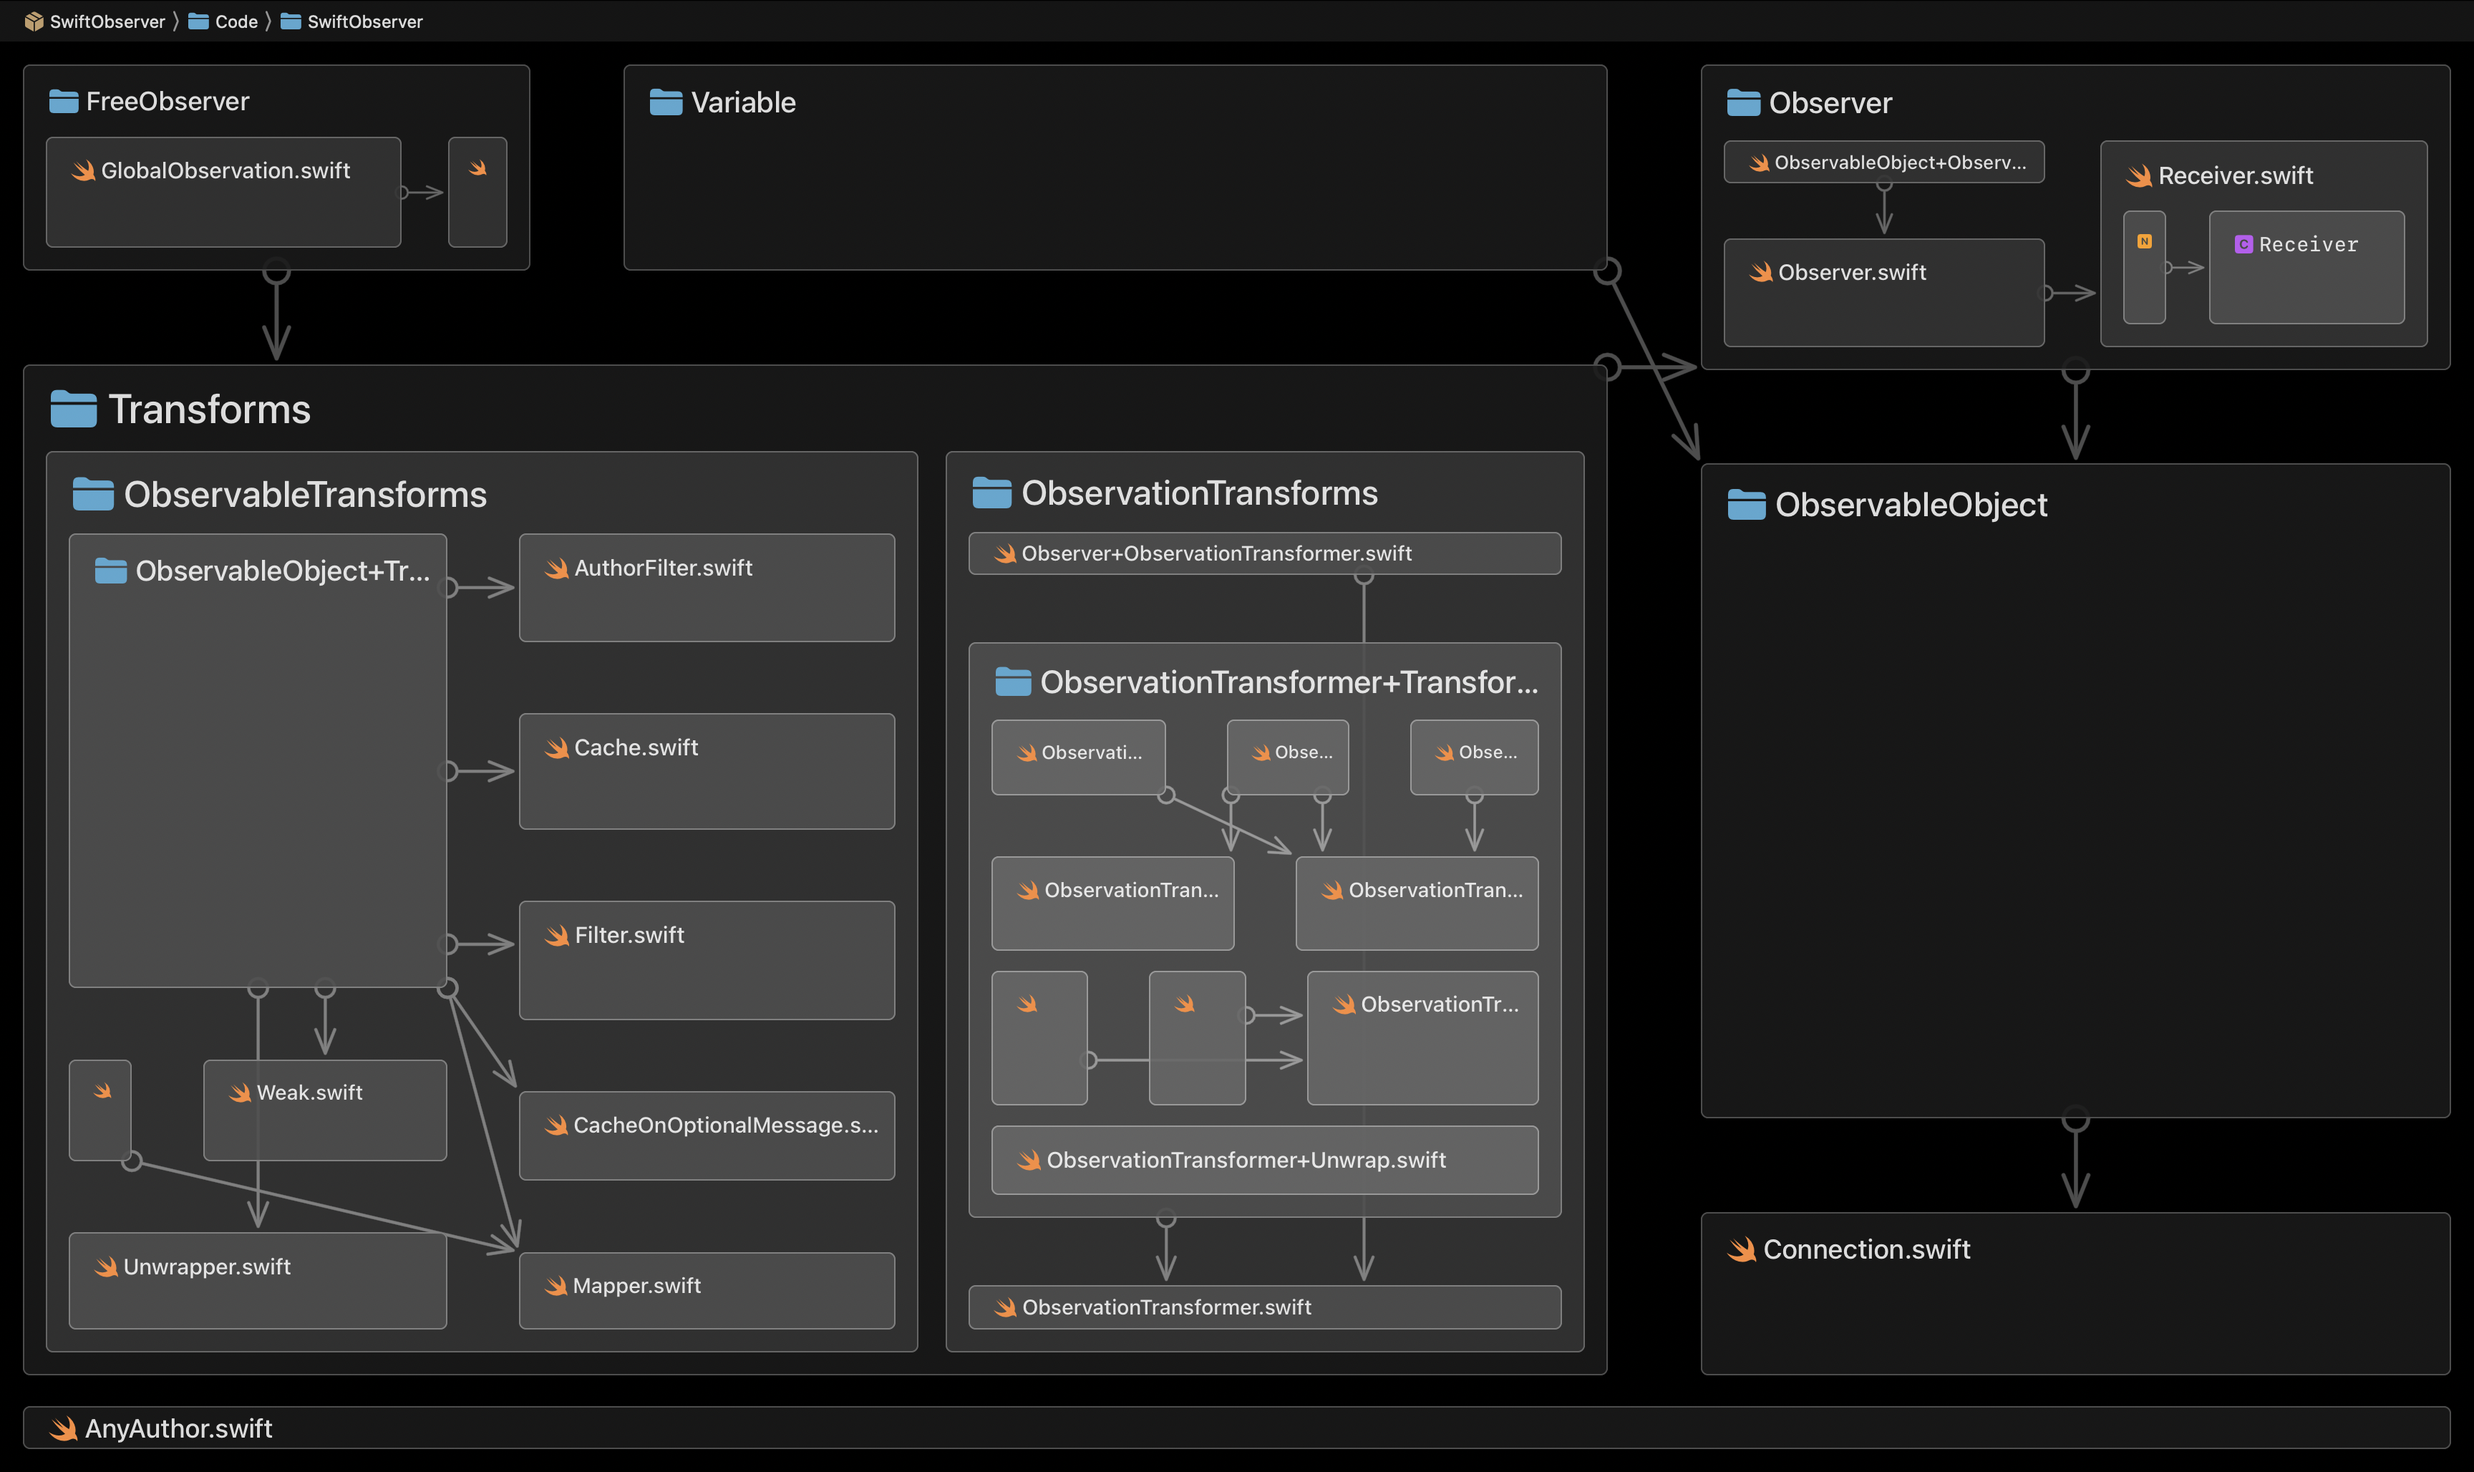
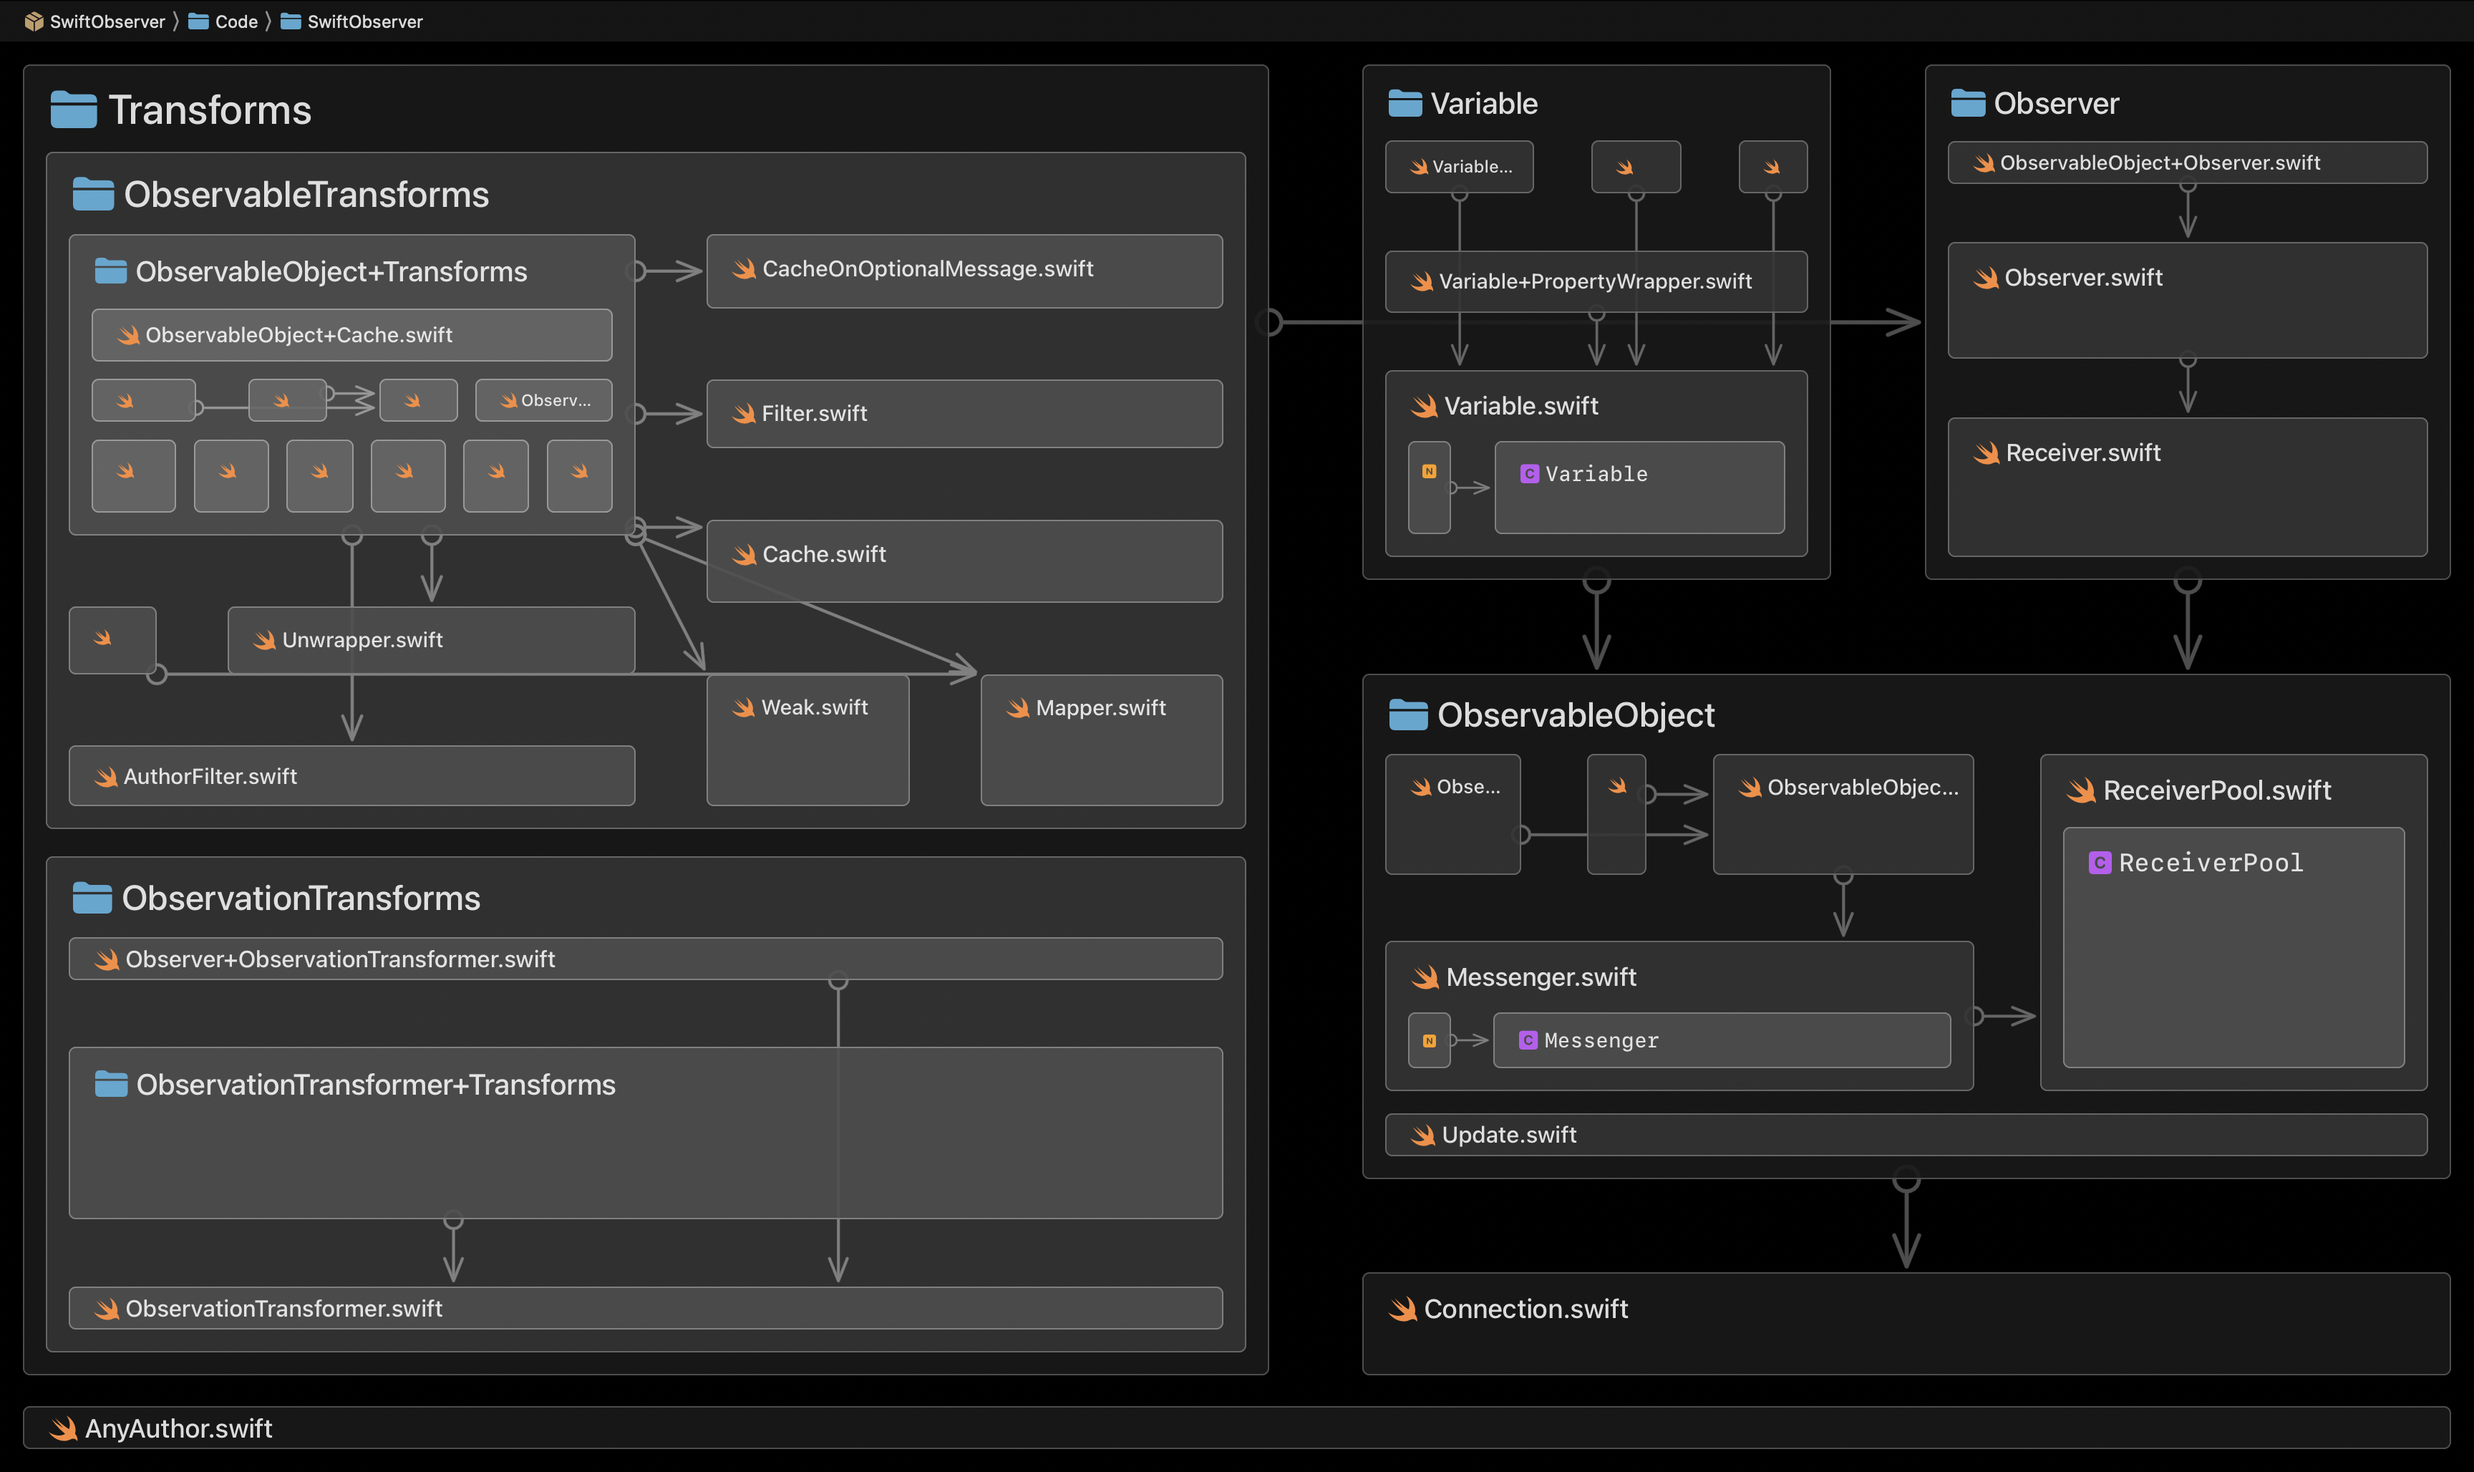
Remove "free" + global observation since they undermine the memory management concept

diff --git a/Tests/SwiftObserverTests/ObservableTransformTests.swift b/Tests/SwiftObserverTests/ObservableTransformTests.swift
@@ -50,7 +50,7 @@ class ObservableTransformTests: XCTestCase, LogObserver
         
         let transform = original.new().unwrap().map { "\($0)" }
         
-        let observer = FreeObserver()
+        let observer = TestObserver()
         
         var lastUpdateFromOriginal: Update<Int?>?
         
@@ -107,7 +107,7 @@ class ObservableTransformTests: XCTestCase, LogObserver
         
         var didFire = false
         
-        let observer = FreeObserver()
+        let observer = TestObserver()
         
         observer.observe(textMapping)
         {
@@ -129,7 +129,7 @@ class ObservableTransformTests: XCTestCase, LogObserver
         
         var observedNumbers = [Int]()
         
-        let observer = FreeObserver()
+        let observer = TestObserver()
         
         observer.observe(doubleDigits)
         {
@@ -153,7 +153,7 @@ class ObservableTransformTests: XCTestCase, LogObserver
         
         var observedNumber: Int? = nil
         
-        let observer = FreeObserver()
+        let observer = TestObserver()
         
         observer.observe(transform)
         {
@@ -174,7 +174,7 @@ class ObservableTransformTests: XCTestCase, LogObserver
         var receivedMessage: String?
         let expectedMessage = "message"
         
-        let observer = FreeObserver()
+        let observer = TestObserver()
         
         observer.observe(textMessenger)
         {
@@ -194,7 +194,7 @@ class ObservableTransformTests: XCTestCase, LogObserver
         
         var didUpdate = false
         
-        let observer = FreeObserver()
+        let observer = TestObserver()
         
         observer.observe(nonOptionalText)
         {
@@ -215,7 +215,7 @@ class ObservableTransformTests: XCTestCase, LogObserver
         
         var didUpdate = false
         
-        let observer = FreeObserver()
+        let observer = TestObserver()
         
         observer.observe(unwrappedText)
         {
@@ -253,4 +253,9 @@ class ObservableTransformTests: XCTestCase, LogObserver
     
     func receive(_ entry: Log.Entry) { latestLogEntry = entry }
     private var latestLogEntry: Log.Entry?
+    
+    class TestObserver: Observer
+    {
+        let receiver = Receiver()
+    }
 }

diff --git a/Tests/SwiftObserverTests/BasicTests.swift b/Tests/SwiftObserverTests/BasicTests.swift
@@ -6,7 +6,7 @@ class BasicTests: XCTestCase
     func testObserverving()
     {
         let messenger = Messenger<Int>()
-        let observer = FreeObserver()
+        let observer = TestObserver()
         var receivedNumber: Int?
         
         observer.observe(messenger) { receivedNumber = $0 }
@@ -24,7 +24,7 @@ class BasicTests: XCTestCase
         
         var didTriggerUpdate = false
         
-        let observer = FreeObserver()
+        let observer = TestObserver()
         
         observer.observe(messenger)
         {
@@ -37,8 +37,8 @@ class BasicTests: XCTestCase
     func testMaintainingMessageOrder()
     {
         let messenger = Messenger<Int>()
-        let observer1 = FreeObserver()
-        let observer2 = FreeObserver()
+        let observer1 = TestObserver()
+        let observer2 = TestObserver()
         var receivedNumbers = [Int]()
         
         observer1.observe(messenger)
@@ -64,7 +64,7 @@ class BasicTests: XCTestCase
     func testObservingAndReceivingAuthor()
     {
         let messenger = Messenger<Int>()
-        let observer = FreeObserver()
+        let observer = TestObserver()
         var receivedNumber: Int?
         var receivedAuthor: AnyAuthor?
         
@@ -84,7 +84,7 @@ class BasicTests: XCTestCase
     func testObservingSameObservableWithMultipleMessageHandlers()
     {
         let messenger = Messenger<Void>()
-        let observer = FreeObserver()
+        let observer = TestObserver()
         var sum = 0
         
         observer.observe(messenger) { sum += 1 }
@@ -95,5 +95,10 @@ class BasicTests: XCTestCase
         messenger.send(())
         
         XCTAssertEqual(sum, 3)
+    }
+    
+    class TestObserver: Observer
+    {
+        let receiver = Receiver()
     }
 }

diff --git a/Code/CombineObserver/SwiftObserver+Combine.swift b/Code/CombineObserver/SwiftObserver+Combine.swift
@@ -7,15 +7,15 @@ public extension ObservableCache {
 }
 
 @available(iOS 13.0, macOS 10.15, *)
-public struct PublisherOnObservableCache<O: ObservableCache>: Publisher {
+public class PublisherOnObservableCache<O: ObservableCache>: Publisher, Observer {
     
     init(_ observable: O) {
         self.observable = observable
         publisher = .init(observable.latestMessage)
-        observer.observe(observable, receive: publisher.send)
+        observe(observable, receive: publisher.send)
     }
     
-    private let observer = FreeObserver()
+    public let receiver = Receiver()
     private let observable: O
     
     public func receive<S>(subscriber: S) where S: Subscriber, Failure == S.Failure, Output == S.Input {
@@ -34,14 +34,14 @@ public extension SwiftObserver.ObservableObject {
 }
 
 @available(iOS 13.0, macOS 10.15, *)
-public struct PublisherOnObservable<O: SwiftObserver.ObservableObject>: Publisher {
+public class PublisherOnObservable<O: SwiftObserver.ObservableObject>: Publisher, Observer {
     
     init(_ observable: O) {
         self.observable = observable
-        observer.observe(observable, receive: publisher.send)
+        observe(observable, receive: publisher.send)
     }
     
-    private let observer = FreeObserver()
+    public let receiver = Receiver()
     private let observable: O
     
     public func receive<S>(subscriber: S) where S: Subscriber, Failure == S.Failure, Output == S.Input {

diff --git a/Tests/SwiftObserverTests/VariableTests.swift b/Tests/SwiftObserverTests/VariableTests.swift
@@ -10,7 +10,7 @@ class VariableTests: XCTestCase
         var observedNewValue: String?
         var observedOldValue: String?
         
-        let observer = FreeObserver()
+        let observer = TestObserver()
         
         observer.observe(text)
         {
@@ -34,7 +34,7 @@ class VariableTests: XCTestCase
         
         var didUpdate = false
         
-        let observer = FreeObserver()
+        let observer = TestObserver()
         
         observer.observe(text)
         {
@@ -120,7 +120,7 @@ class VariableTests: XCTestCase
         var observedNewValue: String?
         var observedOldValue: String?
         
-        let observer = FreeObserver()
+        let observer = TestObserver()
         
         observer.observe($text)
         {
@@ -142,12 +142,17 @@ class VariableTests: XCTestCase
         
         var observedText: String?
         
-        let observer = FreeObserver()
+        let observer = TestObserver()
         
         observer.observe(text) { observedText = $0.new }
         
         text.send()
         
         XCTAssertEqual(observedText, initialText)
+    }
+    
+    class TestObserver: Observer
+    {
+        let receiver = Receiver()
     }
 }

diff --git a/Tests/SwiftObserverTests/CustomObservableTests.swift b/Tests/SwiftObserverTests/CustomObservableTests.swift
@@ -9,7 +9,7 @@ class CustomObservableTests: XCTestCase
         
         var didUpdate = false
         
-        let observer = FreeObserver()
+        let observer = TestObserver()
         
         observer.observe(model)
         {
@@ -28,7 +28,7 @@ class CustomObservableTests: XCTestCase
         
         var didFire = false
         
-        let observer = FreeObserver()
+        let observer = TestObserver()
         
         observer.observe(model).map({ $0.rawValue })
         {
@@ -49,7 +49,7 @@ class CustomObservableTests: XCTestCase
         
         var didFire = false
         
-        let observer = FreeObserver()
+        let observer = TestObserver()
         
         observer.observe(mappedModel)
         {
@@ -74,7 +74,7 @@ class CustomObservableTests: XCTestCase
         
         var didUpdate = false
         
-        let observer = FreeObserver()
+        let observer = TestObserver()
         
         observer.observe(newState)
         {
@@ -116,6 +116,11 @@ class CustomObservableTests: XCTestCase
         }
 
         let messenger = Messenger<Update<String>>()
+    }
+    
+    class TestObserver: Observer
+    {
+        let receiver = Receiver()
     }
 }
 

diff --git a/Tests/SwiftObserverTests/ObservationTransformTests.swift b/Tests/SwiftObserverTests/ObservationTransformTests.swift
@@ -243,5 +243,10 @@ class ObservationTransformTests: XCTestCase
         XCTAssertEqual(observedNumbers, [10, 11, 12])
     }
     
-    let controller = FreeObserver()
+    let controller = TestObserver()
+    
+    class TestObserver: Observer
+    {
+        let receiver = Receiver()
+    }
 }

diff --git a/README.md b/README.md
@@ -10,9 +10,9 @@ SwiftObserver is a lightweight framework for reactive Swift. Its design goals ma
 2. [**Non-intrusive Design**](https://github.com/codeface-io/SwiftObserver/blob/master/Documentation/philosophy.md#non-intrusive-design) ✊🏻<br>SwiftObserver doesn't limit or modulate your design. It just makes it easy to do the right thing.
 3. [**Simplicity**](https://github.com/codeface-io/SwiftObserver/blob/master/Documentation/philosophy.md#simplicity-and-flexibility) 🕹<br>SwiftObserver employs few radically simple concepts and applies them consistently without exceptions.
 4. [**Flexibility**](https://github.com/codeface-io/SwiftObserver/blob/master/Documentation/philosophy.md#simplicity-and-flexibility) 🤸🏻♀<br>SwiftObserver's types are simple but universal and composable, making them applicable in many situations.
-5. [**Safety**](https://github.com/codeface-io/SwiftObserver/blob/master/Documentation/philosophy.md#safety) ⛑<br>SwiftObserver does the memory management for you. Oh yeah, memory leaks are impossible.
+5. [**Safety**](https://github.com/codeface-io/SwiftObserver/blob/master/Documentation/philosophy.md#safety) ⛑<br>SwiftObserver makes those memory leaks impossible that typically come with observer-/reactive patterns.
 
-SwiftObserver is only 1300 lines of production code, but it's well beyond a 1000 hours of work, re-imagining and reworking it many times, [letting go of fancy features](https://github.com/codeface-io/SwiftObserver/releases), documenting, [unit-testing](https://github.com/codeface-io/SwiftObserver/tree/master/Tests/SwiftObserverTests), and battle-testing it in practice.
+SwiftObserver is only 1400 lines of production code, but it's well beyond a 1000 hours of work, re-imagining and reworking it many times, [letting go of fancy features](https://github.com/codeface-io/SwiftObserver/releases), documenting, [unit-testing](https://github.com/codeface-io/SwiftObserver/tree/master/Tests/SwiftObserverTests), and battle-testing it in practice.
 
 ## Why the Hell Another Reactive Swift Framework?
 
@@ -143,7 +143,7 @@ class Sky: ObservableObject {
 
 ### Memory Management
 
-When an `Observer` or `ObservableObject` dies, SwiftObserver cleans up all related observations automatically, making memory leaks impossible. So there isn't really any memory management to worry about.
+When an `Observer` or `ObservableObject` dies, SwiftObserver cleans up all related observations automatically, making those memory leaks impossible that typically come with observer- and reactive patterns. So there isn't any specific memory management to worry about – no "Cancellables", "Tokens", "DisposeBags" or any such weirdness.
 
 However, observing- and observed objects can stop particular- or all their ongoing observations:
 
@@ -153,24 +153,6 @@ dog.stopObserving()                    // no more messages from anywhere
 Sky.shared.stopBeingObserved(by: dog)  // no more messages to dog
 Sky.shared.stopBeingObserved()         // no more messages to anywhere
 ```
-
-### Free Observers
-
-You may start an observation without an explicit observer:
-
-```swift
-observe(Sky.shared) { color in
-    // marvel at the sky changing its color
-}
-
-Sky.shared.observed { color in  // ... same
-    // ...
-}
-```
-
-Both examples internally use the global observer `FreeObserver.shared`. You may reference `FreeObserver.shared` explicitly to stop particular or all such free global observations.
-
-You can also instantiate your own `FreeObserver` to do observations even more "freely". Just keep it alive as long as the observation shall last. Such a free observer is like a "Cancellable" or "Token" in other reactive frameworks.
 
 ### Architecture
 
